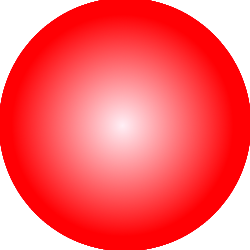
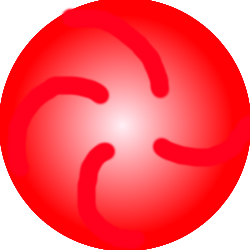
Spinning projectiles

diff --git a/Application/src/GameObjects/Entity/Player/PlayerAttack.cpp b/Application/src/GameObjects/Entity/Player/PlayerAttack.cpp
@@ -5,6 +5,6 @@ void PlayerAttack::Attack(DX::XMFLOAT2 position, DX::XMFLOAT2 direction)
 {
 
 
-	std::shared_ptr<Projectile> projectile = std::make_shared<Projectile>(ProjectileType::Base, DX::XMFLOAT2(position.x + direction.x * 15, position.y + direction.y * 15), direction, 300.0f, 0.2f);
+	std::shared_ptr<Projectile> projectile = std::make_shared<Projectile>(ProjectileType::Base, DX::XMFLOAT2(position.x + direction.x * 15, position.y + direction.y * 15), direction, 300.0f, 0.5f);
 	ProjectileManager::AddProjectile(projectile);
 }

diff --git a/Application/src/GameObjects/Entity/Enemy/EnemyAttack.cpp b/Application/src/GameObjects/Entity/Enemy/EnemyAttack.cpp
@@ -25,7 +25,7 @@ void EnemyAttack::Attack(DX::XMFLOAT2 position, DX::XMFLOAT2 direction)
         XMStoreFloat2(&finalDirection, spreadDirection);
 
         // Create and add projectile
-        std::shared_ptr<Projectile> projectile = std::make_shared<Projectile>(ProjectileType::Base, position, finalDirection, 60.0f, 2.0f);
+        std::shared_ptr<Projectile> projectile = std::make_shared<Projectile>(ProjectileType::Base, position, finalDirection, 60.0f, 8);
         ProjectileManager::AddProjectile(projectile);
     }
 }

diff --git a/Application/src/GameObjects/Projectile/Projectile.cpp b/Application/src/GameObjects/Projectile/Projectile.cpp
@@ -35,7 +35,8 @@ void Projectile::Update()
     {
         this->m_visible->UpdateLayer(this->m_position, this->m_layerFloat);
         PerformMove(this->m_direction, this->m_velocity);
-        m_lifetime -= 0.2 * Clock::GetDeltaTime();
+        m_lifetime -= Clock::GetDeltaTime();
+        m_rotationFloat += Clock::GetDeltaTime() * 20;
     }
     else
     {
